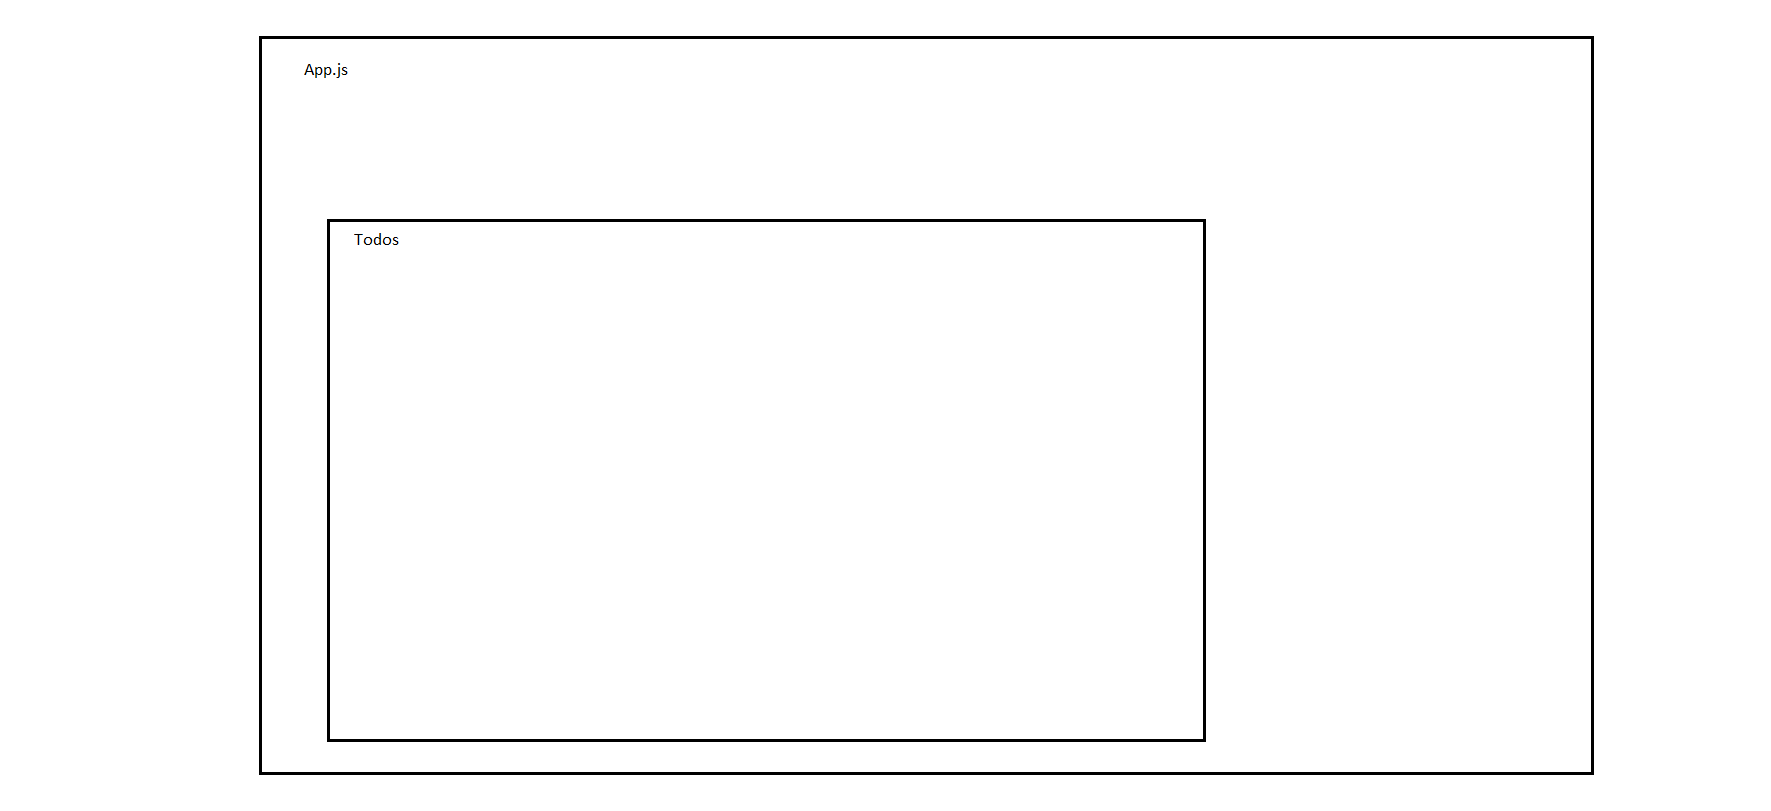
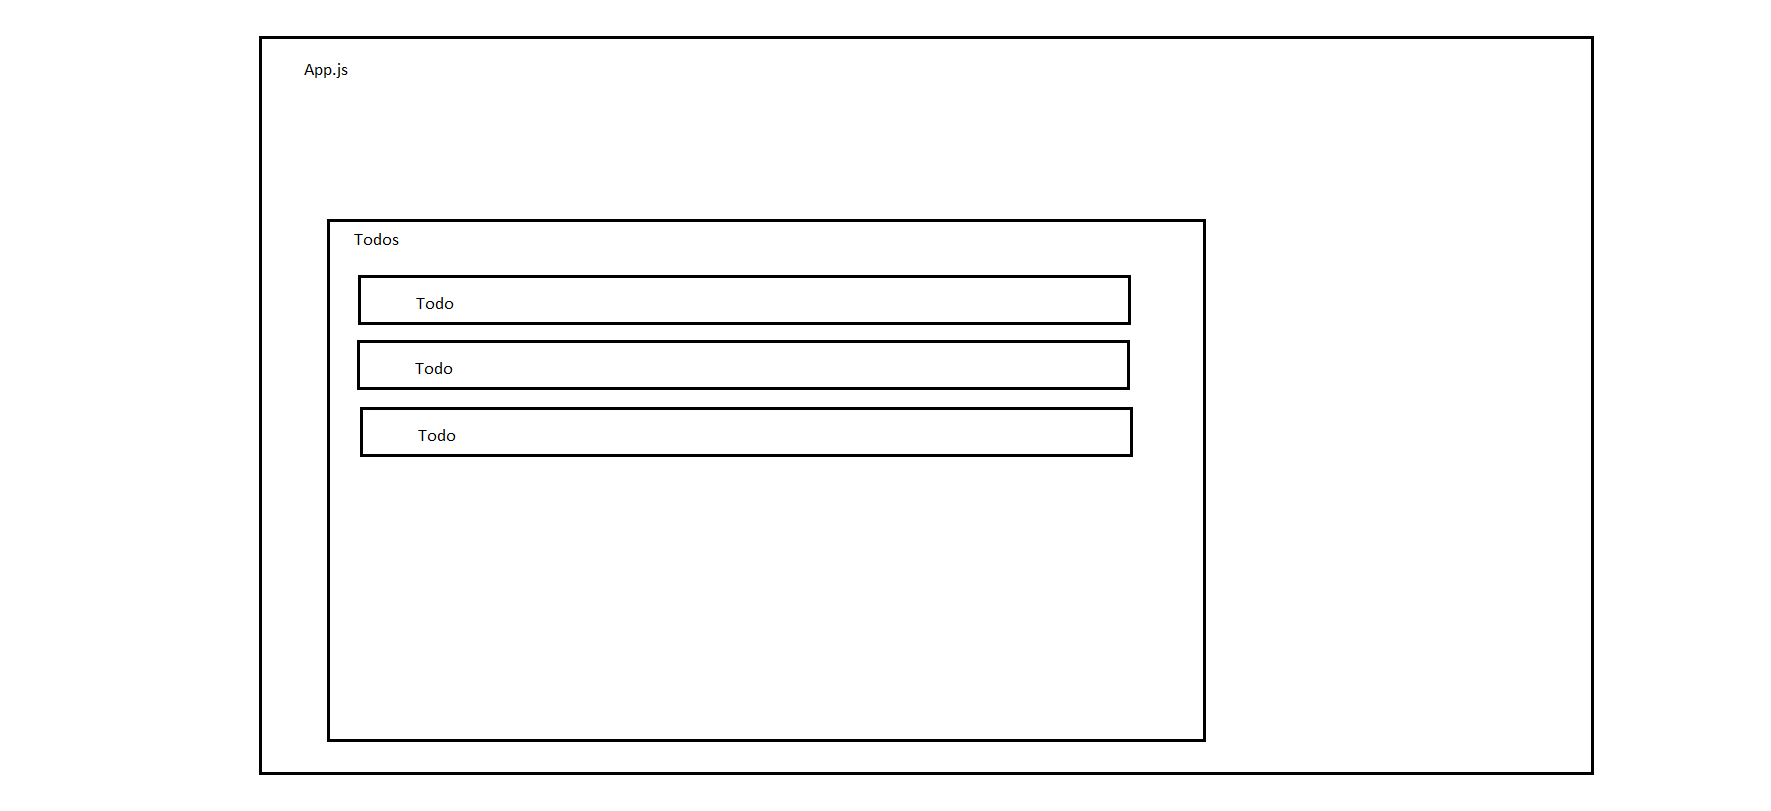
Rename refactoring and adding style to SingleTodo

Changed region(s): [[0.1863, 0.3391, 0.6522, 0.4316], [0.2174, 0.4624, 0.6522, 0.524], [0.2174, 0.5549, 0.6211, 0.5857]]

diff --git a/src/components/SingleTodo/index.js b/src/components/SingleTodo/index.js
@@ -1,0 +1,29 @@
+import React from 'react';
+
+const SingleTodo = props => {
+  const { todo } = props;
+
+  const getStyle = () => {
+    const style = {
+      backgroundColor: '#e3e3e3',
+      padding: 10,
+      borderBottom: '1px #ccc solid'
+    };
+
+    if (todo.done === true) {
+      style.textDecoration = 'line-through';
+    } else {
+      style.textDecoration = 'none';
+    }
+
+    return style;
+  };
+
+  return (
+    <div style={getStyle()}>
+      <p>{todo.title}</p>
+    </div>
+  );
+};
+
+export default SingleTodo;

diff --git a/src/App.js b/src/App.js
@@ -1,13 +1,13 @@
 import React, { useState } from 'react';
 
-import Todos from './components/Todos';
+import TodosContainer from './components/TodosContainer';
 
 function App() {
   const [todos, setTodos] = useState([
     {
       id: 1,
       title: 'Attend restro meeting',
-      done: false
+      done: true
     },
     {
       id: 2,
@@ -23,7 +23,7 @@ function App() {
 
   return (
     <React.Fragment>
-      <Todos todos={todos} />
+      <TodosContainer todos={todos} />
     </React.Fragment>
   );
 }

diff --git a/src/components/TodosContainer/index.js b/src/components/TodosContainer/index.js
@@ -1,0 +1,19 @@
+import React from 'react';
+
+import SingleTodo from '../SingleTodo';
+
+const TodosContainer = props => {
+  const { todos } = props;
+
+  return (
+    <div>
+      {todos &&
+        todos.map(todo => {
+          return <SingleTodo key={todo.id} todo={todo} />;
+          // return <p key={todo.id}>{todo.title}</p>;
+        })}
+    </div>
+  );
+};
+
+export default TodosContainer;
